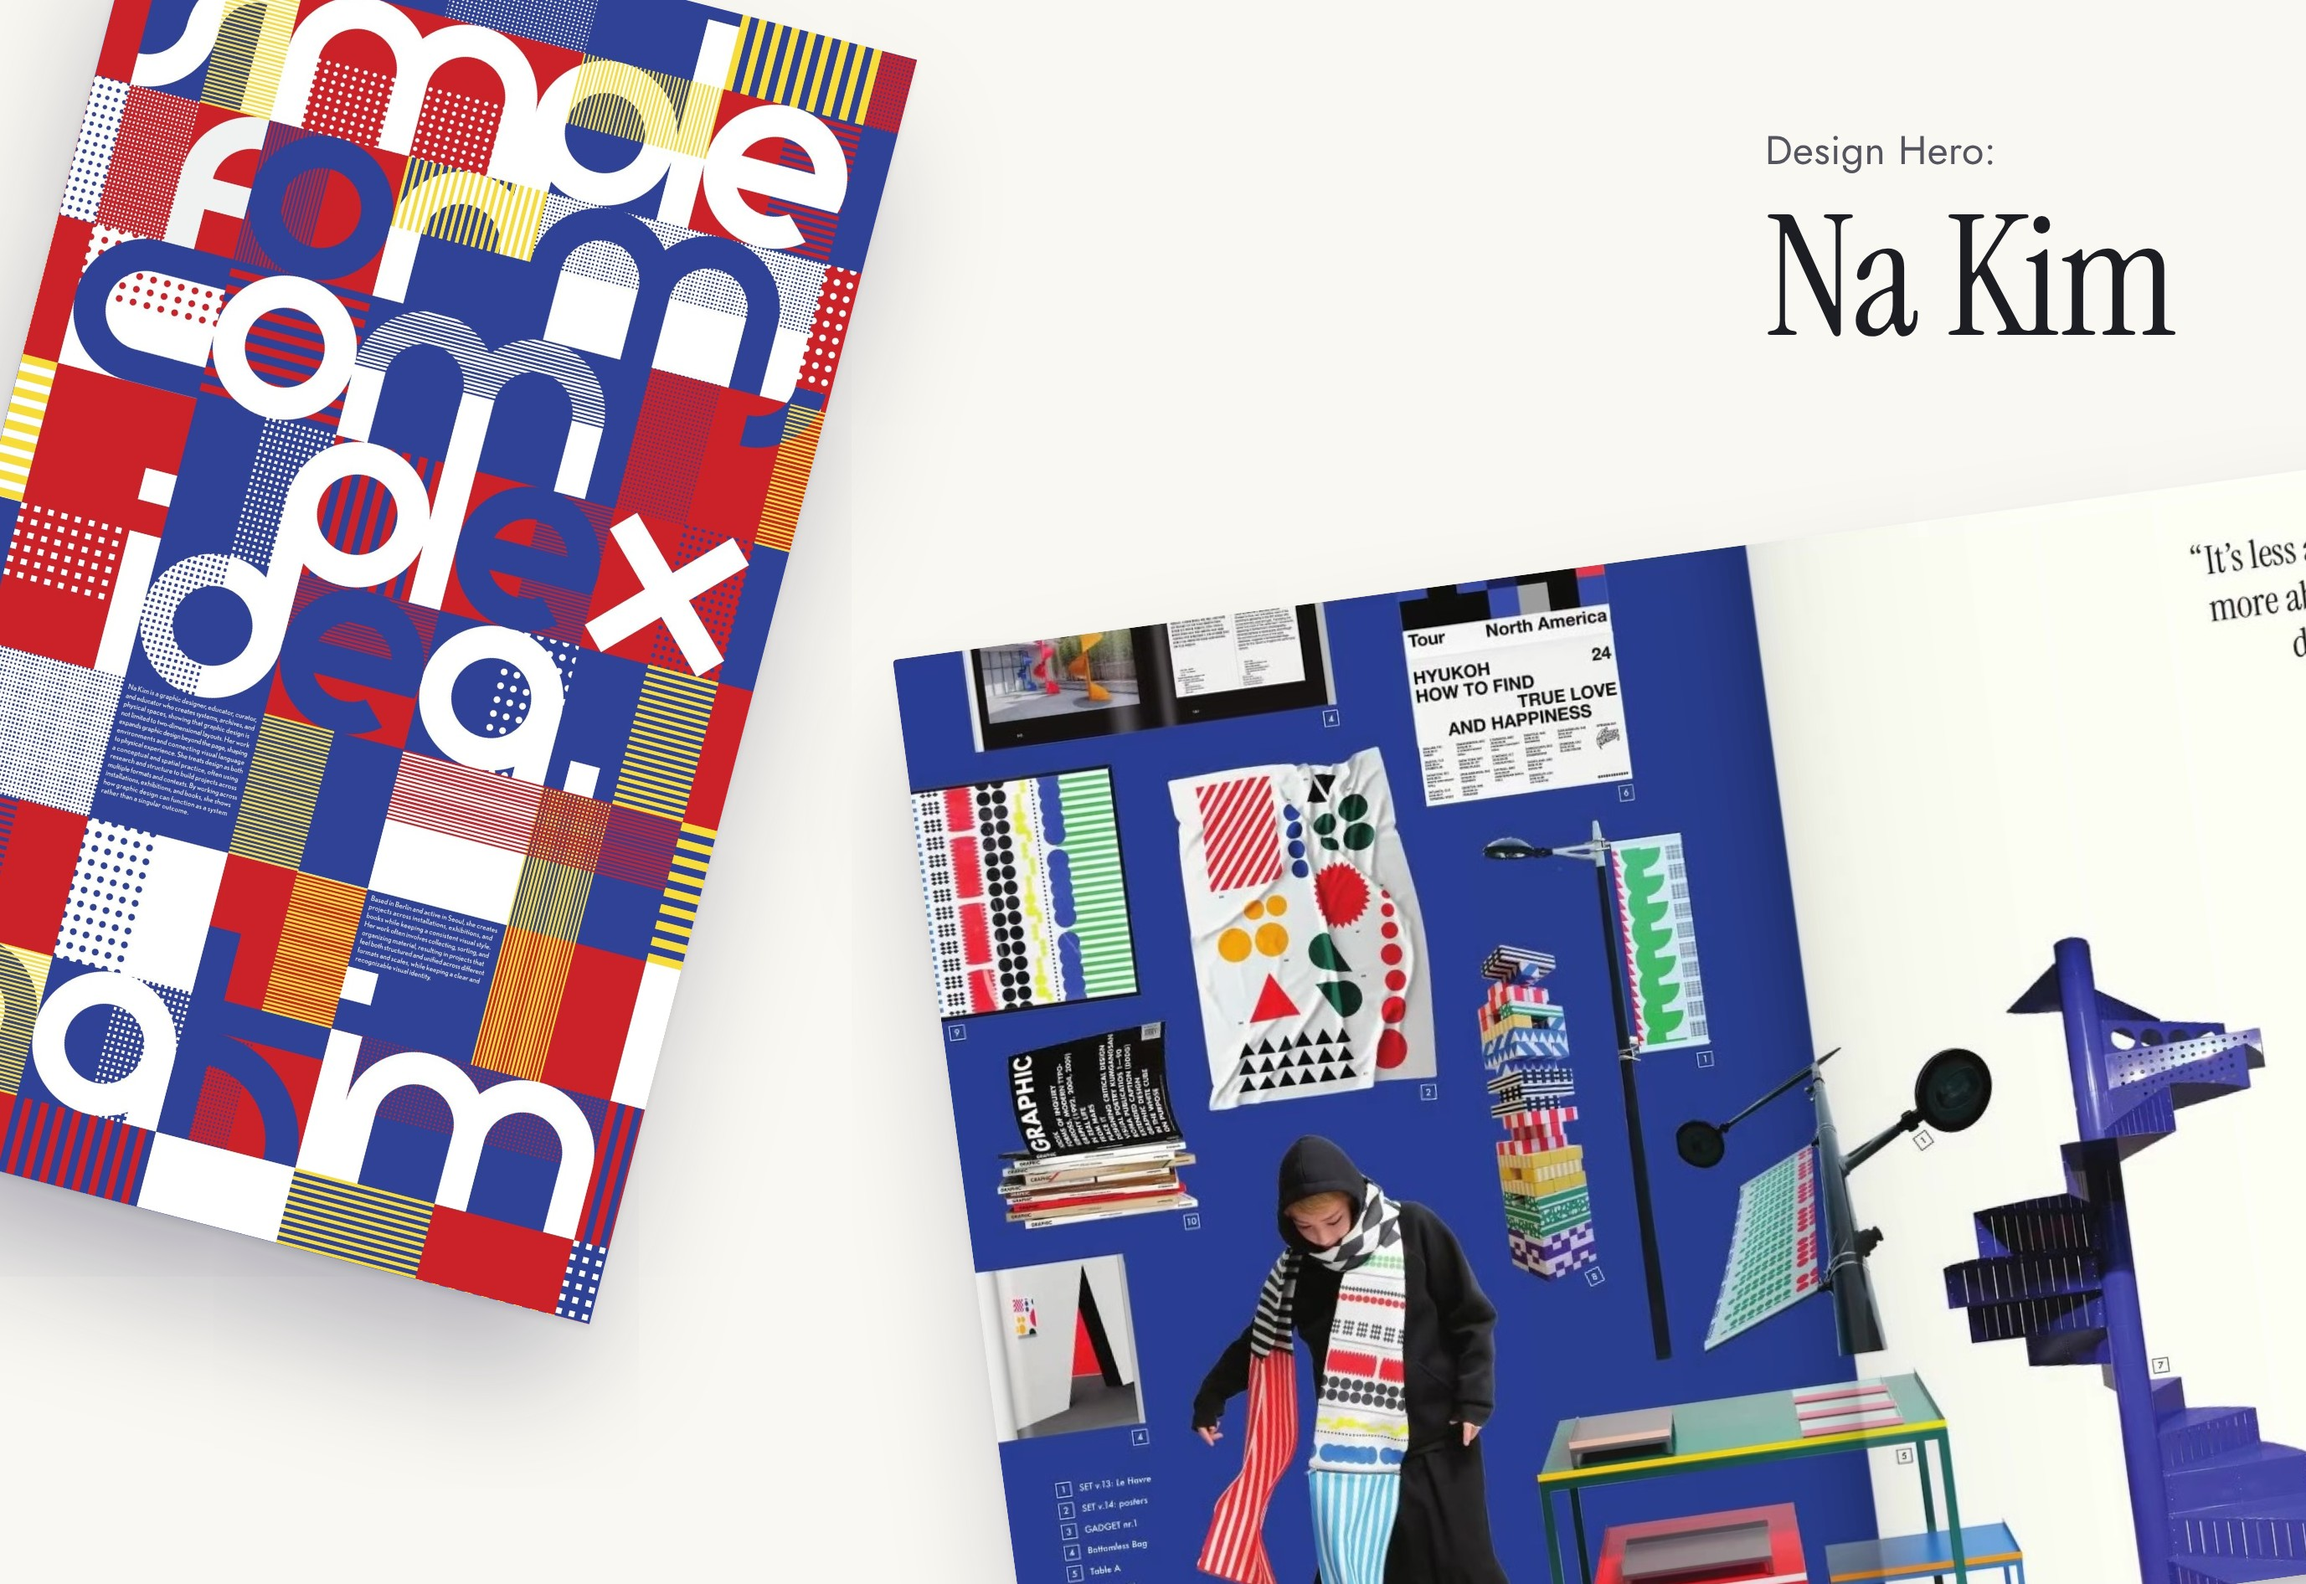
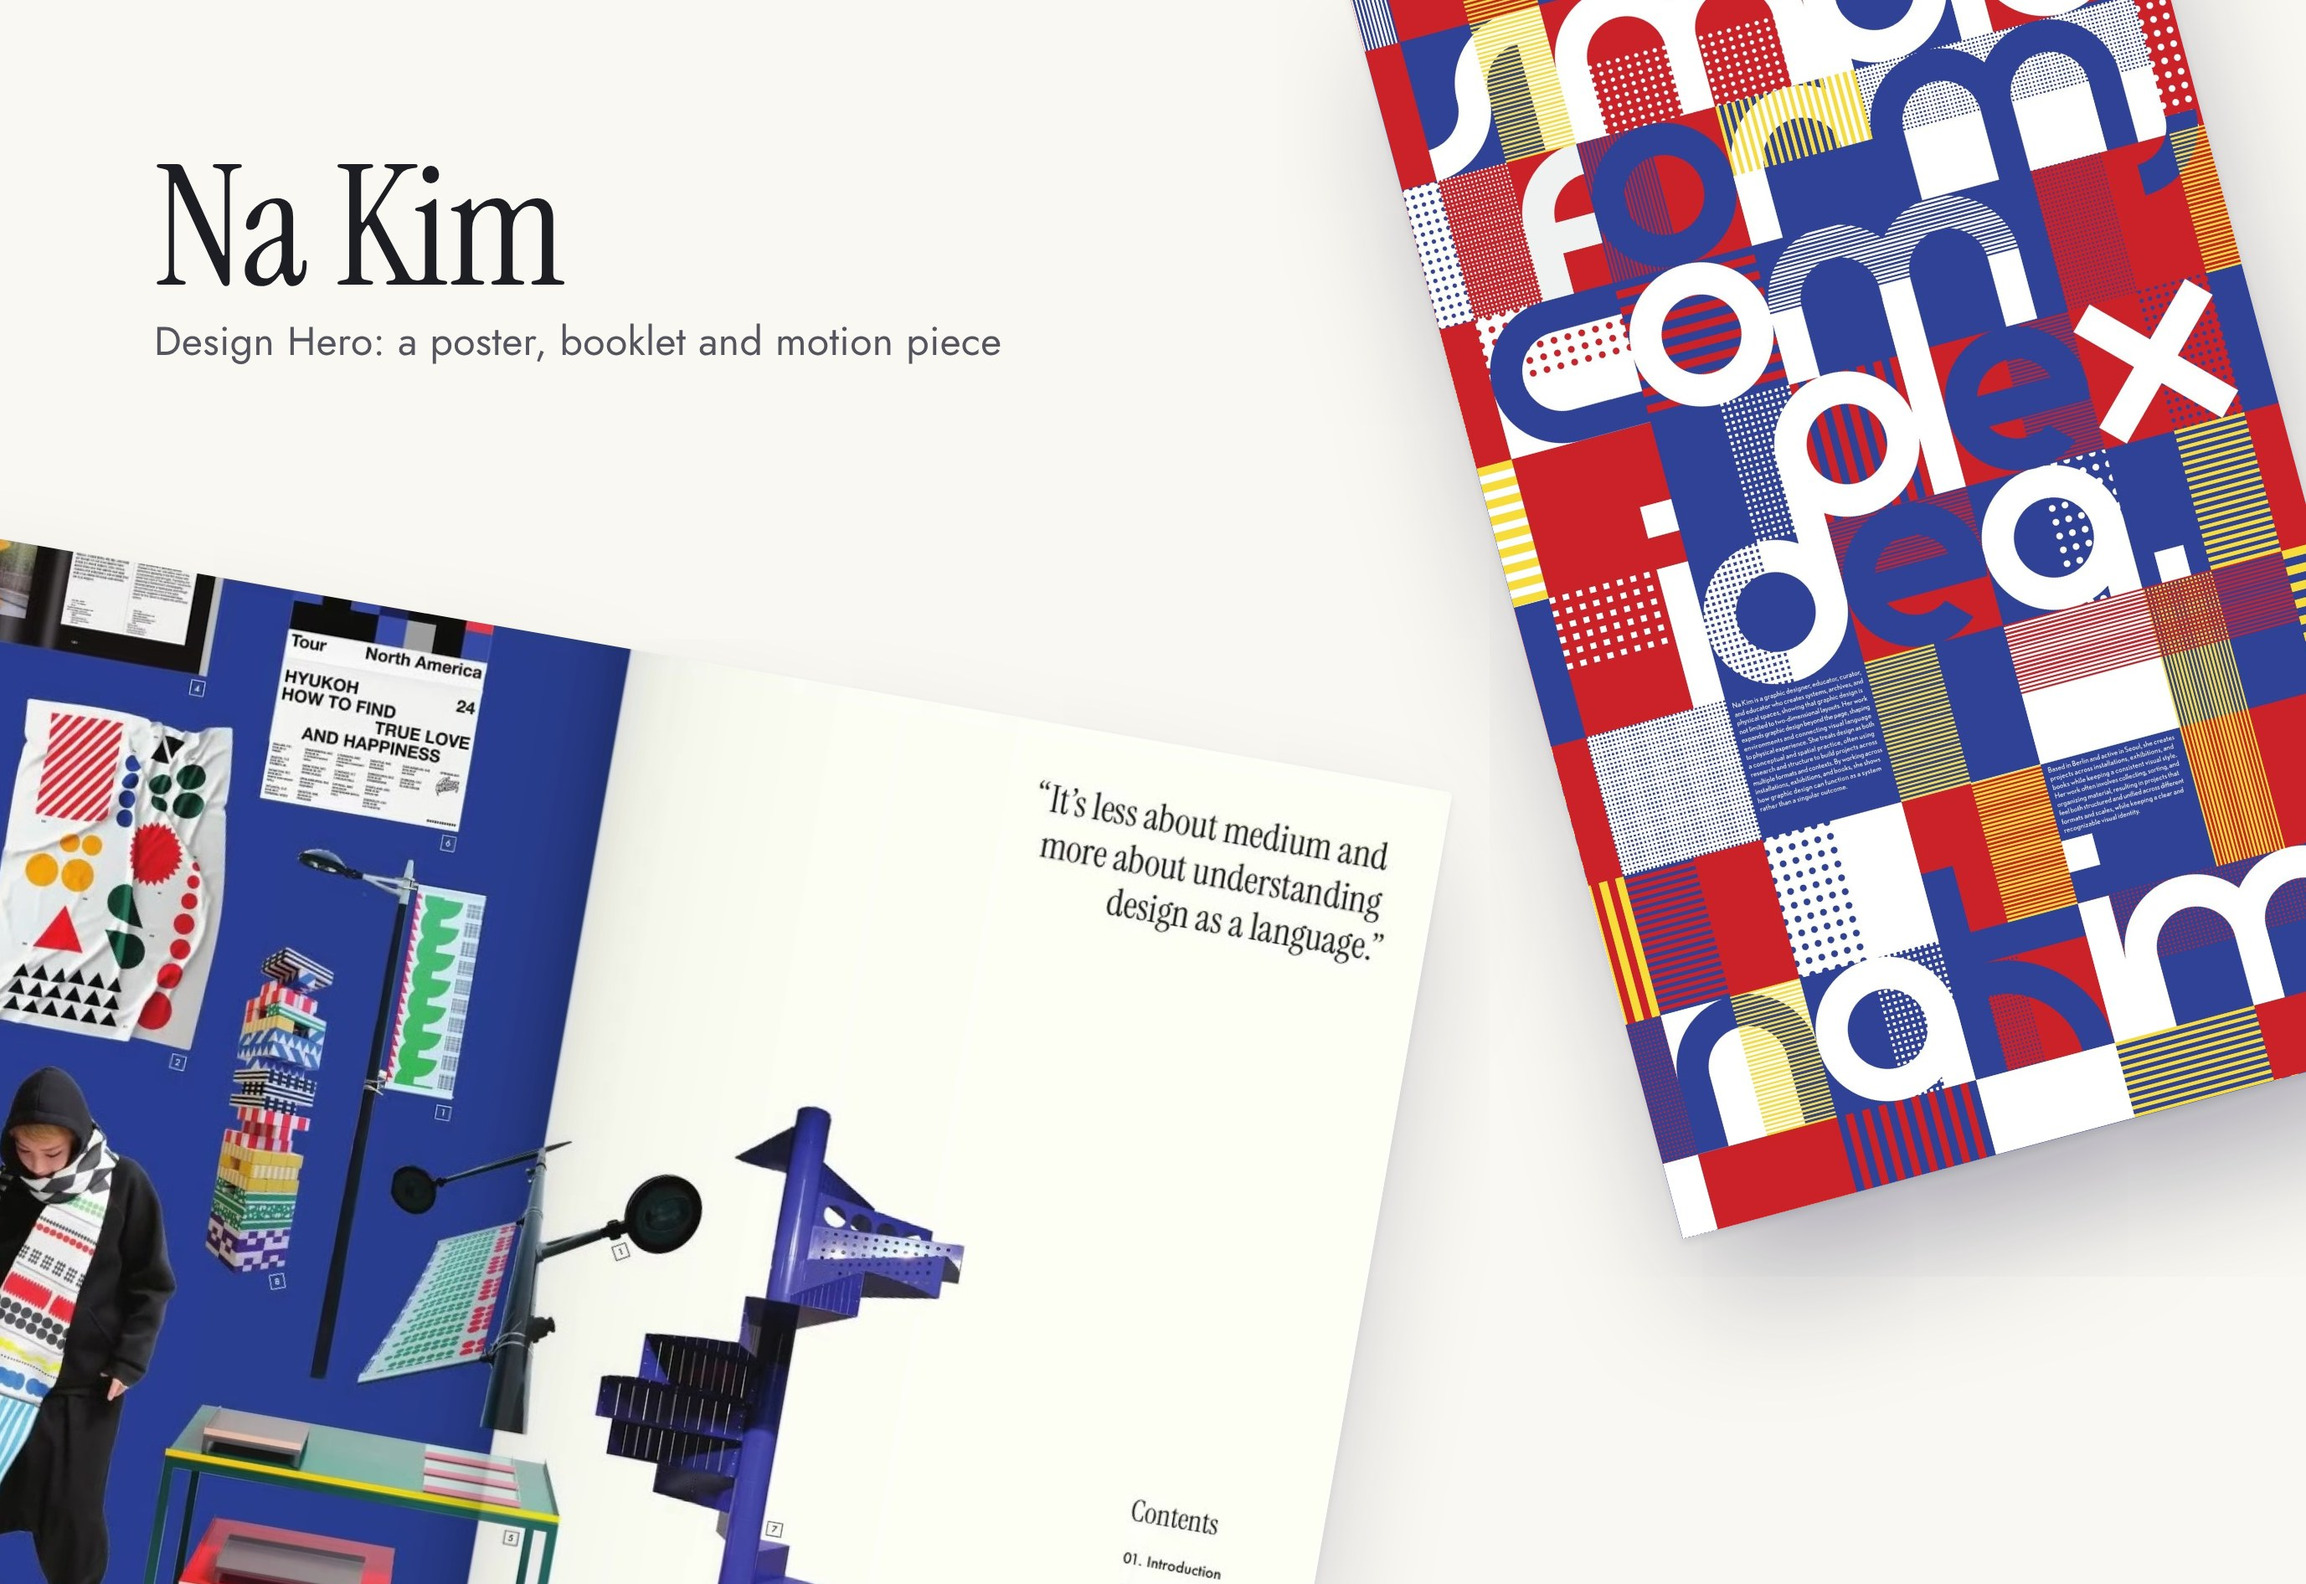
Home: bring back the previous Na Kim cover (#25)
Restores the Na Kim cover from before #24 (title top left, spread and poster below). Bark and Arencia stay as in #24.

Claude-Session: https://claude.ai/code/session_01PJkMotC6Nz8qWguHKxjy1y

diff --git a/index.html b/index.html
@@ -70,8 +70,8 @@
 
       <a class="project" href="design-hero-site/index.html">
         <div class="project__media project__media--hero">
-          <img src="design-hero-site/images/cover.jpg?v=6" width="1377" height="946"
-            alt="Na Kim cover: 'Design Hero: Na Kim' at the top right on a cream background, with the tilted 'simple form, complex idea' poster on the left and the booklet contents spread below">
+          <img src="design-hero-site/images/cover.jpg?v=7" width="1377" height="946"
+            alt="Na Kim cover: the title on a cream background above the tilted booklet contents spread and the 'simple form, complex idea' poster">
           <video class="project__hover" data-src="design-hero-site/images/hover.mp4?v=1" muted playsinline loop preload="none" aria-hidden="true"></video>
         </div>
         <h2 class="project__title">Design Hero</h2>
